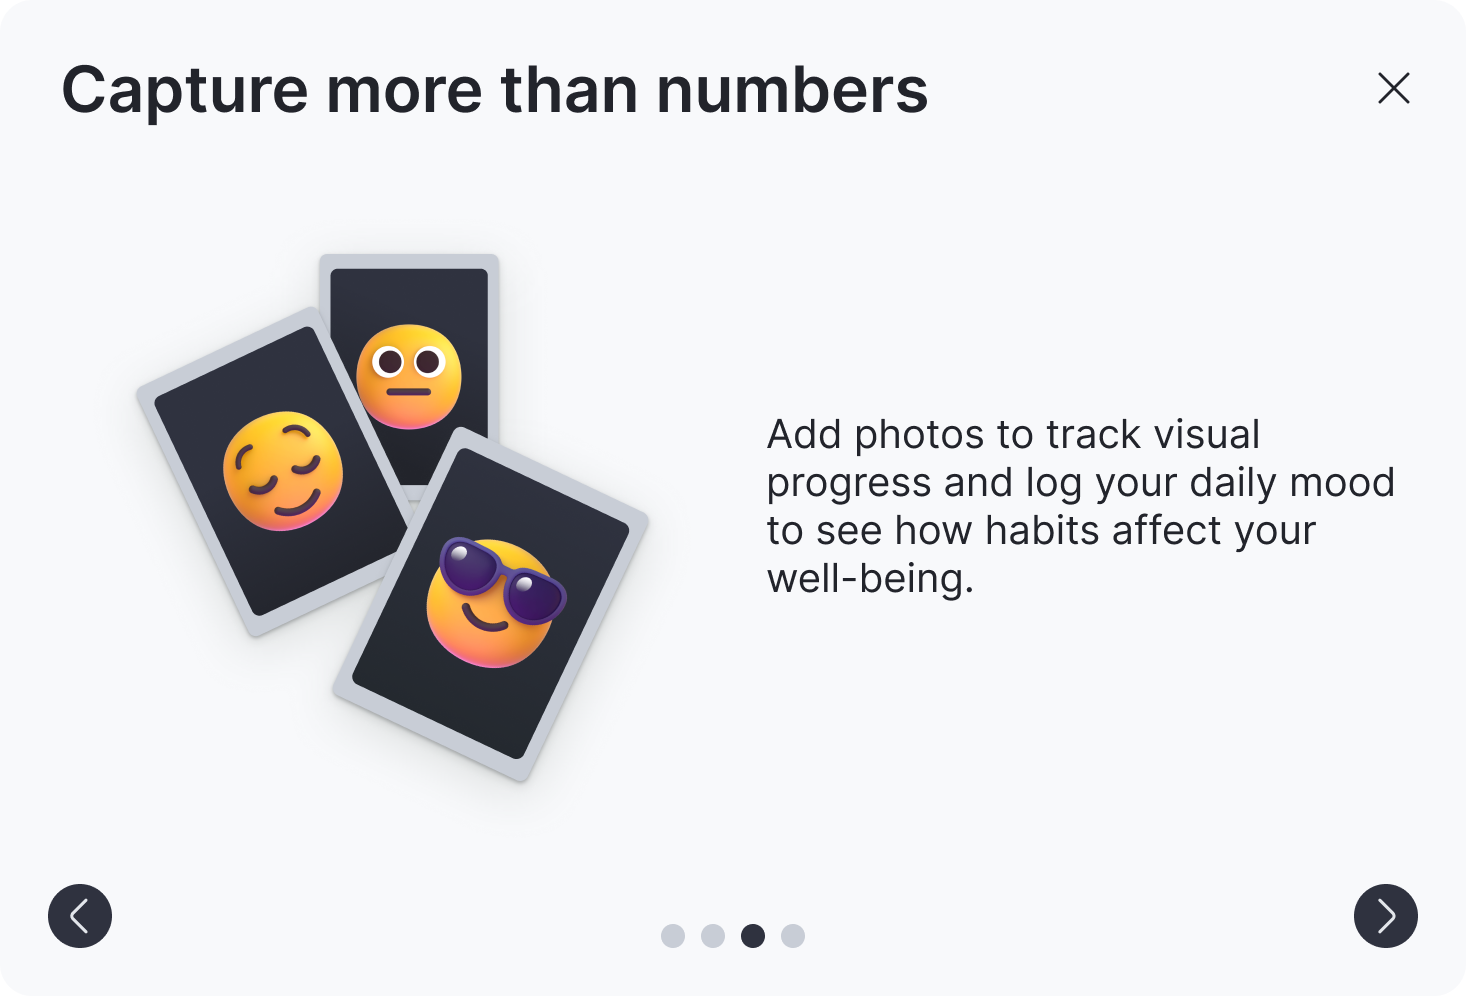
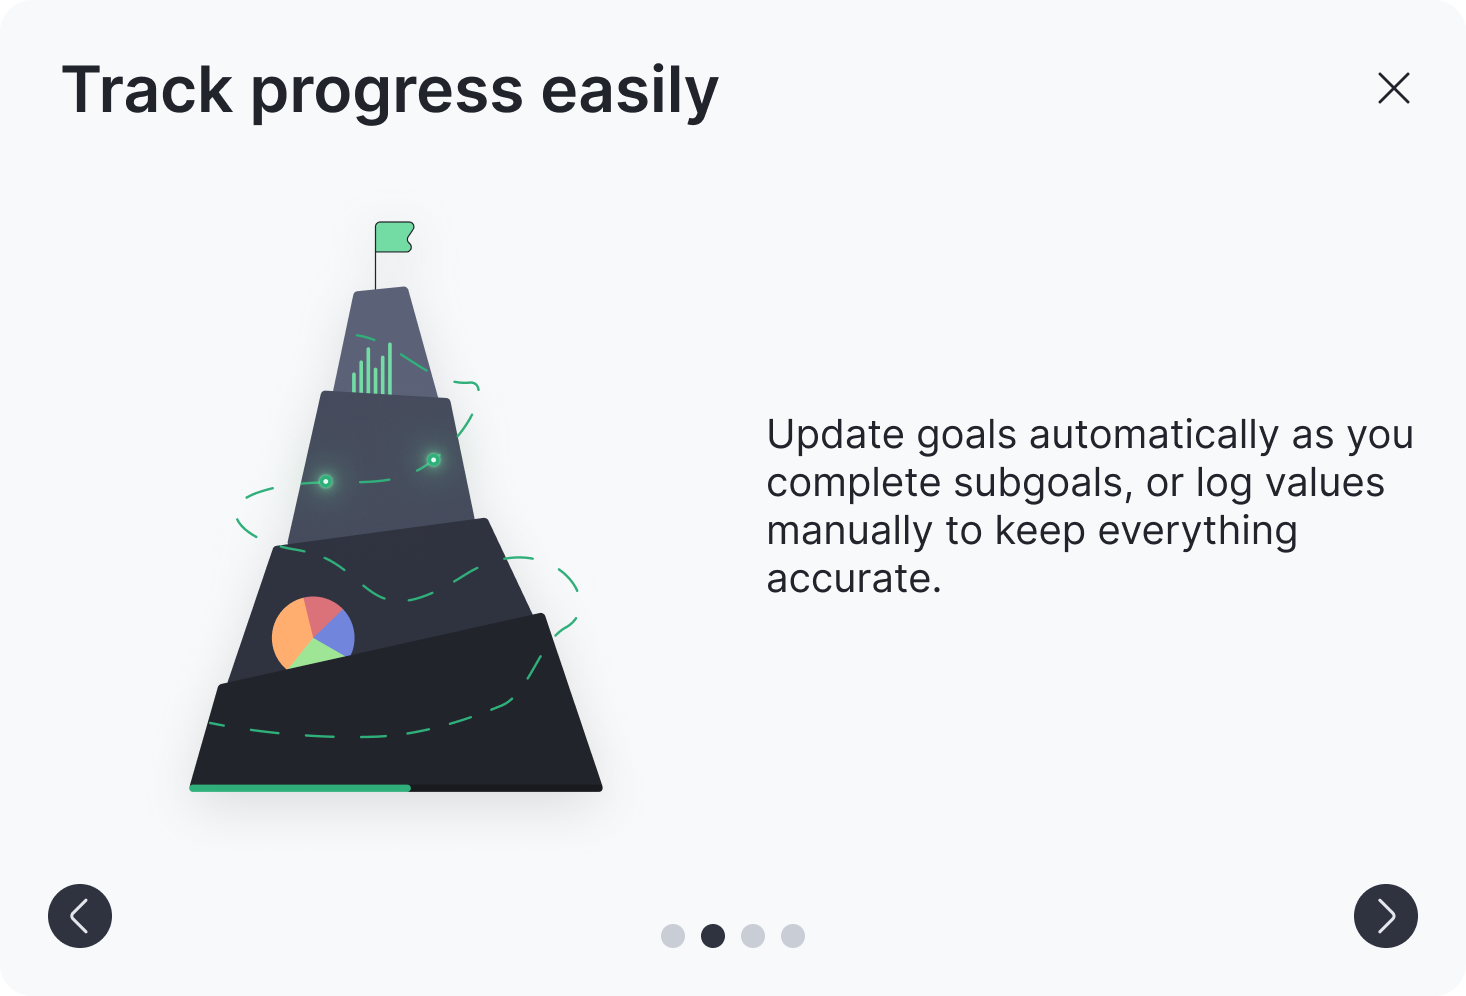
Краткое описание того, что было сделано

diff --git a/src/components/CaseStudy.jsx b/src/components/CaseStudy.jsx
@@ -12,6 +12,9 @@ const CaseStudy = () => {
   const [expandedSections, setExpandedSections] = useState({})
   const [selectedImage, setSelectedImage] = useState(null)
   const [imageScale, setImageScale] = useState(1)
+  const [imagePosition, setImagePosition] = useState({ x: 0, y: 0 })
+  const [isDragging, setIsDragging] = useState(false)
+  const [dragStart, setDragStart] = useState({ x: 0, y: 0 })
   const contentRef = useRef(null)
 
   // Toggle section expansion
@@ -32,16 +35,66 @@ const CaseStudy = () => {
   const closeImageModal = () => {
     setSelectedImage(null)
     setImageScale(1)
+    setImagePosition({ x: 0, y: 0 })
+    setIsDragging(false)
     document.body.style.overflow = 'auto'
   }
 
   // Handle image zoom with mouse wheel
   const handleImageWheel = (e) => {
+    // Disable zoom on mobile/tablet devices
+    if (window.innerWidth <= 768) return
+    
     e.preventDefault()
     const delta = e.deltaY > 0 ? 0.9 : 1.1
     const newScale = Math.min(Math.max(0.5, imageScale * delta), 3)
     setImageScale(newScale)
+    
+    // Reset position when zooming back to 1x
+    if (newScale === 1) {
+      setImagePosition({ x: 0, y: 0 })
+    }
   }
+
+  // Handle mouse down for dragging
+  const handleMouseDown = (e) => {
+    if (imageScale <= 1) return // Only allow dragging when zoomed in
+    
+    setIsDragging(true)
+    setDragStart({
+      x: e.clientX - imagePosition.x,
+      y: e.clientY - imagePosition.y
+    })
+    e.preventDefault()
+  }
+
+  // Handle mouse move for dragging
+  const handleMouseMove = (e) => {
+    if (!isDragging || imageScale <= 1) return
+    
+    const newX = e.clientX - dragStart.x
+    const newY = e.clientY - dragStart.y
+    
+    setImagePosition({ x: newX, y: newY })
+  }
+
+  // Handle mouse up to stop dragging
+  const handleMouseUp = () => {
+    setIsDragging(false)
+  }
+
+  // Add global mouse event listeners
+  useEffect(() => {
+    if (isDragging) {
+      document.addEventListener('mousemove', handleMouseMove)
+      document.addEventListener('mouseup', handleMouseUp)
+      
+      return () => {
+        document.removeEventListener('mousemove', handleMouseMove)
+        document.removeEventListener('mouseup', handleMouseUp)
+      }
+    }
+  }, [isDragging, dragStart])
 
   // Format content with markdown-like syntax
   const formatContent = (content) => {
@@ -294,24 +347,9 @@ const CaseStudy = () => {
           </div>
         </div>
 
-        {/* Images for this section */}
-        {section.images && section.images.length > 0 && (
-          <div className="space-y-8">
-            {section.images.map((image, index) => (
-              <div key={index} className="cursor-pointer group" onClick={() => openImageModal(image)}>
-                <img
-                  src={image}
-                  alt={`${section.title} - Image ${index + 1}`}
-                  className="w-full h-auto rounded-lg shadow-xl transition-transform duration-300 group-hover:scale-105"
-                />
-              </div>
-            ))}
-          </div>
-        )}
-
         {/* Image pairs for desktop/mobile comparison */}
         {section.imagePairs && section.imagePairs.length > 0 && (
-          <div className="space-y-8">
+          <div className="space-y-8 mb-8">
             {section.imagePairs.map((pair, pairIndex) => (
               <div key={pairIndex} className="grid grid-cols-1 md:grid-cols-2 gap-4">
                 <div className="cursor-pointer group" onClick={() => openImageModal(pair.desktop)}>
@@ -332,6 +370,39 @@ const CaseStudy = () => {
                 </div>
               </div>
             ))}
+          </div>
+        )}
+
+        {/* Images for this section */}
+        {section.images && section.images.length > 0 && (
+          <div className="space-y-8">
+            {section.images.map((image, index) => (
+              <div key={index} className="cursor-pointer group" onClick={() => openImageModal(image)}>
+                <img
+                  src={image}
+                  alt={`${section.title} - Image ${index + 1}`}
+                  className="w-full h-auto rounded-lg shadow-xl transition-transform duration-300 group-hover:scale-105"
+                />
+              </div>
+            ))}
+          </div>
+        )}
+
+        {/* Additional text after image pairs for UI section */}
+        {section.id === 'ui' && (
+          <div className="prose prose-lg text-gray-300 max-w-none">
+            <div className="text-lg leading-relaxed">
+              <p className="text-gray-300 mb-3">
+                После регистрации пользователь проходит через короткий онбординг, который подсвечивает ключевые возможности. Моя цель - сократить Time to Value, чтобы юзер максимально быстро осознал пользу приложения.
+              </p>
+            </div>
+          </div>
+        )}
+
+        {/* Onboarding slider for UI section */}
+        {section.id === 'ui' && section.onboardingImages && section.onboardingImages.length > 0 && (
+          <div className="mt-8">
+            <ImageSlider images={section.onboardingImages} />
           </div>
         )}
       </section>
@@ -403,13 +474,19 @@ const CaseStudy = () => {
         {
           id: 'ui',
           title: 'UI',
-          content: 'Дизайн Keepl отошел от агрессивных интерфейсов продуктивности и сфокусировался на создании поддерживающей, гибкой и осознанной среды для достижения целей. Я использовал мягкие скругления для снижения визуальной резкости, такую же мягкую тень для создания легкой, но быстрой узнаваемости интерактивных элементов, и спокойную цветовую палитру, не режущую глаз при ежедневном использовании приложения.\n\nМобильная адаптация реализована в виде PWA - пользователь сможет "сохранить" веб страницу на свой хоум скрин и использовать как обычное мобильное приложение. Для этого я переработал некоторые элементы интерфейса, чтобы приложение вело себя нативно: сайд бар сменился привычным таб баром, модалки стали bottom sheet.\n\n## Первый вход в приложение и создание цели',
+          content: 'Дизайн Keepl отошел от агрессивных интерфейсов продуктивности и сфокусировался на создании поддерживающей, гибкой и осознанной среды для достижения целей. Я использовал мягкие скругления для снижения визуальной резкости, такую же мягкую тень для создания легкой, но быстрой узнаваемости интерактивных элементов, и спокойную цветовую палитру, не режущую глаз при ежедневном использовании приложения.\n\nМобильная адаптация реализована в виде PWA - пользователь сможет "сохранить" веб страницу на свой хоум скрин и использовать как обычное мобильное приложение. Для этого я переработал некоторые элементы интерфейса, чтобы приложение вело себя нативно: сайд бар сменился привычным таб баром, модалки стали bottom sheet.\n\n## Первый вход в приложение и создание цель',
           images: [],
           imagePairs: [
             {
               desktop: '/assets/keepl app/log_in.png',
               mobile: '/assets/keepl app/log_in 1.png'
             }
+          ],
+          onboardingImages: [
+            '/assets/keepl app/onboarding.png',
+            '/assets/keepl app/onboarding 2.png',
+            '/assets/keepl app/onboarding 3.png',
+            '/assets/keepl app/onboarding 4.png'
           ]
         },{
           id: 'results',
@@ -614,22 +691,28 @@ const CaseStudy = () => {
             onClick={closeImageModal}
           >
             <div className="relative max-w-6xl max-h-full animate-scale-in">
-              <div className="overflow-auto max-h-[90vh]">
+              <div className="overflow-hidden max-h-[90vh] relative">
                 <img
                   src={selectedImage}
                   alt="Enlarged view"
-                  className="object-contain rounded-lg cursor-zoom-in transition-transform duration-200"
+                  className={`object-contain rounded-lg transition-transform duration-200 ${
+                    imageScale > 1 && window.innerWidth > 768 ? 'cursor-grab active:cursor-grabbing' : 'cursor-zoom-in'
+                  }`}
                   style={{ 
-                    transform: `scale(${imageScale})`,
+                    transform: `scale(${imageScale}) translate(${imagePosition.x / imageScale}px, ${imagePosition.y / imageScale}px)`,
                     transformOrigin: 'center',
                     maxHeight: '90vh',
-                    minWidth: '200px'
+                    minWidth: '200px',
+                    userSelect: 'none'
                   }}
                   onWheel={handleImageWheel}
+                  onMouseDown={handleMouseDown}
                   onClick={(e) => e.stopPropagation()}
                 />
               </div>
-              <p className="text-center text-gray-400 text-sm mt-2">Используйте колесико мыши для масштабирования</p>
+              {window.innerWidth > 768 && (
+                <p className="text-center text-gray-400 text-sm mt-2">Используйте колесико мыши для масштабирования</p>
+              )}
             </div>
           </div>
         </>

diff --git a/src/components/ImageSlider.jsx b/src/components/ImageSlider.jsx
@@ -26,7 +26,7 @@ const ImageSlider = ({ images }) => {
   return (
     <div className="relative w-full overflow-hidden rounded-lg">
       {/* Main Image */}
-      <div className="relative h-96 md:h-[500px] bg-gray-800 rounded-lg overflow-hidden">
+      <div className="relative h-96 md:h-[500px] rounded-lg overflow-hidden">
         <img
           src={images[currentIndex]}
           alt={`Slide ${currentIndex + 1}`}
@@ -42,7 +42,7 @@ const ImageSlider = ({ images }) => {
               aria-label="Previous image"
             >
               <svg className="w-5 h-5" fill="none" stroke="currentColor" viewBox="0 0 24 24">
-                <path strokeLinecap="round" strokeLinejoin="round" strokeWidth={2} d="M15 19l-7-7 7 7" />
+                <path strokeLinecap="round" strokeLinejoin="round" strokeWidth={2} d="M15 19l-7-7 7-7" />
               </svg>
             </button>
 
